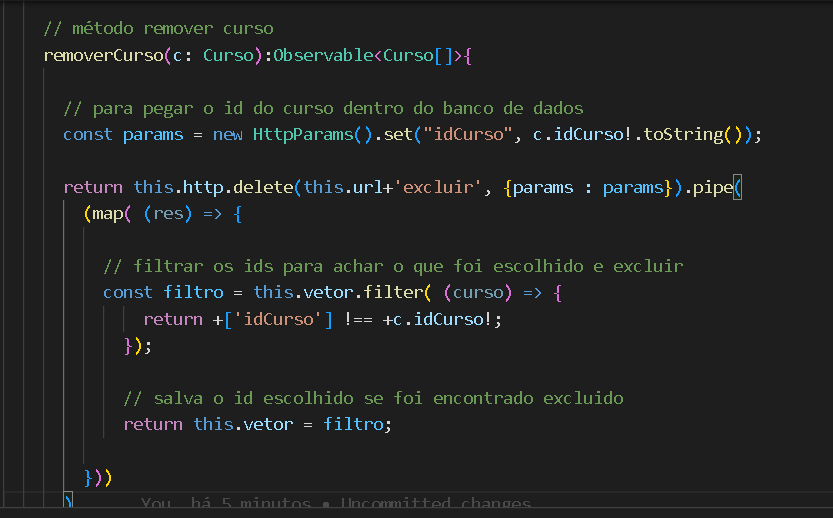
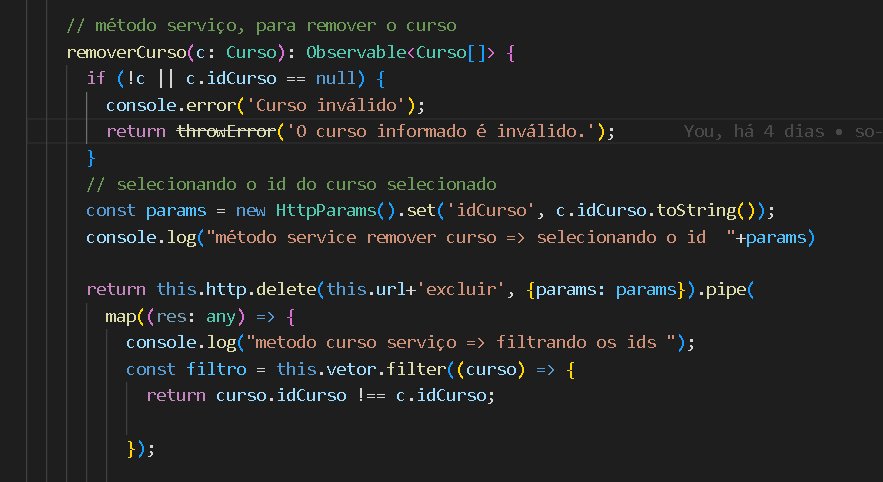
atualizando-bloco-notas

diff --git a/blocoNotas/Criar-metodo-exclusao.html b/blocoNotas/Criar-metodo-exclusao.html
@@ -33,7 +33,7 @@
                 <a href="./Criar-metodo-exclusao.html">Criando método de Exclusão</a><br>
                 <br>
                  <!--LINK AULA 2-->
-                <a href="./">algum link </a><br>
+                <a href="./Criar-metodo-Atualizar.html">Criando método de Atualizar </a><br>
                 <br>
                 <br>
                  <!---Link dentro da própria página-----><!---Figurinha mas é texto-->
@@ -55,31 +55,55 @@
                     <br>
                     // método remover Curso <br>
                     <br>
+                    <div class="destaque">
                     <b>removerCurso(c: Curso):Observable<Curso[]> { </b> <br> 
                     <br>
+                    // para fazer uma verificação se tem o idCurso ou não.<br>
+                    if (!c || c.idCurso == null) {<br>
+                    ____console.error('Curso inválido');<br>
+                    ____return throwError('O curso informado é inválido.');<br>
+                    __}<br>
+                    <br>
                     ____// para pegar o id do curso dentro do banco de dados
-                    <b>const params = new HttpParams().set("idCurso", c.idCurso!.toString());</b> <br>
+                    <b>const params = new HttpParams().set('idCurso', c.idCurso.toString());;</b> <br>
                     <br>
                     <br>
                     _____<b>return this.http.delete(this.url+'excluir', {params : params}).pipe ( </b> <br>
-                    _____<b>(map( (res) => {</b> <br>
+                    _____<b>(map( (res: any) => {</b> <br>
                             <br>
                     ________// filtrar os ids para achar o que foi escolhido e exclui <br>
                     ________<b>const filtro = this.vetor.filter( (curso) => {</b> <br>
-                    ______________<b>return +['idCurso'] !== +c.idCurso!;</b> <br>
+                    ______________<b>return curso.idCurso !== c.idCurso;</b> <br>
                     ______________<b>} ) ; </b> <br>
                     <br>
                     <br>
                     ________// salva o id escolhido se foi encontrado excluido <br>
-                    ________<b>return this.vetor = filtro;</b> <br>
+                    ________<b>this.vetor = [...filtro];</b> <br>
+                    <br>
+                    ________<b>return this.vetor;</b> <br>
                     <br>
                     __<b>} ) )</b> <br>
+                    // verificação se o idCurso não for removido vai exiir essa mensagem<br>
+                    <br>
+                    catchError((error: HttpErrorResponse) => {<br>
+                    ____if (error instanceof Error) {<br>
+                    _______console.error('Erro ao remover curso:', error);<br>
+                    _______return throwError('Ocorreu um erro ao tentar remover o curso.');<br>
+                    ____} else {<br>
+                    ______console.error('Erro ao remover curso:', error.error);<br>
+                    ______return throwError('Ocorreu um erro ao tentar remover o curso. Verifique os dados informados.');<br>
+                    ____}<br>
+                    __})<br>
                     <b>)</b>
+                    </div>
                     <br>
                     <br>
                     Veja o código como é :<br>
                     <div class="image">
                         <img src="./imagens/metodo-remover-1.png" alt="print do código">
+                    </div>
+                    <div class="image">
+                        <img src="./imagens/metodo-remover-2-2.png" alt="print do código">
                     </div>
                     <br>
                     <br>
@@ -101,22 +125,34 @@
                     <br>
                     //  remover Curso <br>
                     <br>
-                    <b> remover(){ </b> <br> 
-                    <br>
-                    ____<b>this.curso_servico.removerCurso(this.curso).subscribe ( </b> <br>
-                    <br>
-                    __________<b>(res : Curso[] ) => { </b> <br>
-                    _____________<b> this.vetor = res;</b> <br>
+                    <div class="destaque">
+                        <b> remover(c: Curso){ </b> <br> 
                             <br>
+                            ____<b>this.curso_servico.removerCurso(c).subscribe(</b> <br>
                             <br>
-                    ________// atualiza os atributos <br>
-                    ________<b>this.curso.nomeCurso = '' ;</b> <br>
-                    ________<b>this.curso.valorCurso = 0 ;</b> <br>
-                    <br>
-                    <br>
-                    ______<b>} </b> <br>
-                    __<b> )</b> <br>
-                    <b>}</b>
+                            __________<b>(res : Curso[] ) => { </b> <br>
+                            _____________<b> this.vetor = res;</b> <br>
+                                    <br>
+                                    <br>
+                            ________// atualiza os atributos <br>
+                            ________<b>this.curso.nomeCurso = '' ;</b> <br>
+                            ________<b>this.curso.valorCurso = 0 ;</b> <br>
+                            <br>
+                            _______<b>// atualizar a listagem no front</b> <br>
+                            _______<b>this.selecao();</b> <br>
+                            <br>
+                            _______<b>return this.vetor = res;</b>
+                            <br>
+                            ______<b>}, </b> <br>
+                            <br>
+                            // verifica se o método está funcionando.<br>
+                            error => { <br>
+                            ________console.error(error+" Erro no método remover");<br>
+                            ___} <br>
+                            <br>
+                            __<b> )</b> <br>
+                            <b>}</b>
+                    </div>
                     <br>
                     <br>
                     Veja o código como é :<br>
@@ -141,15 +177,17 @@
                     Vai no componente <b>curso.component.ts</b>, no método "selecionar curso especifico",<br>
                     <br>
                     <br>
-                    // selecionar curso especifico <br>
+                    // selecionar curso especifico para fazer algo... <br>
                     <br>
-                    <b> selecionarCurso( c : Curso ){ </b> <br> 
-                    <br>
-                    ____<b>this.curso.idCurso = c.idCurso;</b> <br>
-                    ____<b>this.curso.idCurso = c.idCurso; </b> <br>
-                    ____<b> this.curso.idCurso = c.idCurso;</b> <br>
-                    <br>
-                    __<b>} </b> <br>
+                    <div class="destaque">
+                        <b> selecionarCurso( c : Curso ){ </b> <br> 
+                            <br>
+                        ____<b>this.curso.idCurso = c.idCurso;</b> <br>
+                        ____<b>this.curso.idCurso = c.idCurso; </b> <br>
+                        ____<b> this.curso.idCurso = c.idCurso;</b> <br>
+                        <br>
+                        __<b>} </b> <br>
+                    </div>
                     <br>
                     <br>
                     Veja o código como é :<br>
@@ -159,7 +197,7 @@
                     <br>
                     <br>
                     Agora vai no componente <b>curso.component.html</b>, e adicione um "button",<br>
-                    que ao clicar nele vao acionar o método.<br>
+                    que ao clicar nele vai acionar o método.<br>
                     <br>
                     Acrescente mais uma tag "td", e dentro dela um "button".<br>
                     <br>

diff --git a/blocoNotas/Criar-metodo-Atualizar.html b/blocoNotas/Criar-metodo-Atualizar.html
@@ -10,7 +10,7 @@
     <link rel="preconnect" href="https://fonts.gstatic.com" crossorigin>
     <link href="https://fonts.googleapis.com/css2?family=Poppins:wght@300;400;500;600&display=swap" rel="stylesheet">
     <link href="https://cdnjs.cloudflare.com/ajax/libs/font-awesome/6.3.0/css/all.min.css" rel="stylesheet">
-    <title>Criando método de Cadastro</title>
+    <title>Criando método de Atualizar</title>
 </head>
 <body>
     <main class="todaPagina" id="aula2">
@@ -19,12 +19,6 @@
             <p class="logo">
                 <h2 id="h2" data-text="API" class="fill-animation">API</h2>
             </p>
-                <br>
-                 <!--LINK AULA 2-->
-                <a href="./Configurando-Angular.html">Configurando o Angular </a><br>
-                <br>
-                <!--LINK AULA 3-->
-                <a href="./Estrutura-de-servico.html">Estrutura de Serviços </a><br>
                 <br>
                 <!--LINK AULA 4-->
                 <a href="./Metodo-de-selecao.html">Método de Seleção </a><br>
@@ -35,6 +29,13 @@
                 <!--LINK AULA 6-->
                 <a href="./Criar-metodo-exclusao.html">Criando método de Exclusão</a><br>
                 <br>
+                 <!--LINK AULA 2-->
+                <a href="./Criar-metodo-Atualizar.html">Criando método de Atualizar </a><br>
+                <br>
+                <br>
+                <!--LINK AULA 3-->
+                <a href="./index.html"> Inicio </a><br>
+                <br>
                 <br>
                  <!---Link dentro da própria página-----><!---Figurinha mas é texto-->
                 <a href="#sobreMim"><i class="fa-solid fa-user-tie"></i></a><br>
@@ -43,92 +44,45 @@
                 <a href="#contato"><i class="fa-regular fa-envelope"></i></a><br>
              <br>
         </div>
-        <!--Criar método serviço para cadastrar-->
+        <!--Criar método serviço para excluir-->
         <section id="aula1" class="aula">
-            <header class="title"><h1>Criar método serviço para cadastrar </h1></header>
+            <header class="title"><h1>Criar método de serviço para Atualizar  </h1></header>
             <section class="description">
                 <h2>
-                    Vamos criar método de serviço para realizar um cadastramento.<br>
-                    <br>
-                    Esse método terá que ter um objeto, que tem o nome e o valor do curso.<br>
+                    Vamos criar método de serviço para atualizar algum dado do banco de dado.<br>
                     <br>
                     Vai no componente service <b>curso.service.ts</b> e adicione:<br>
                     <br>
                     <br>
-                    // método serviço cadastrar <br>
+                    // método serviço para atualizar curso <br>
+                    <br>
                     <div class="destaque">
-                        <b>
-                            cadastrarCurso(c: Curso):Observable<Curso[]>{ <br>
-                            ____return this.http.post(this.url+'cadastrar', {cursos : c }).pipe <br>
-                            ____( map ((res) => { <br>
-                            ________this.vetor.push(res as Curso); <br>
-                            ________return this.vetor; <br>
-                            ________}))<br>
-                            ____} <br>
-                        </b> 
-                    </div>
+                    <b>atualizarCurso(c: Curso): Observable<Curso[]>{ </b> <br> 
                     <br>
-                    Veja o código como é :<br>
+                    ______// executa a alteração via url<br>
+                    ______<b>return this.http.put(this.url+'alterar', {curso: c})</b><br>
+                    <br>
+                    ______// percorre o vetor para saber qual é o id do curso alterado.<br>
+                    ______<b>.pipe(map((res) => {</b> <br>
+                    _____________<b>const cursoAlterado = this.vetor.find((item) => {</b> <br>
+                    __________________<b>item.idCurso === c.idCurso</b> <br>
+                    _____________<b>} ) ;</b> <br>
+                    <br>
+                    _______// alterar o valor do vetor local <br>
+                    _______<b></b>
+
+              
                     <div class="image">
-                        <img src="./imagens/metodo-cadastrar-1.png" alt="print do código">
+                        <img src="./imagens/metodo-remover-2-2.png" alt="print do código">
                     </div>
                     <br>
-                    <br>
-                    Agora estamos usando:<br>
-                    <b>post</b> => que é para enviar algo.<br>
-                    <br>
-                    <b>console.log()</b> => é para saber o que o código está fazendo.<br>
                     <br>
                     <br>
                 </h2>
             </section>
         </section>
         <br>
-        <!--Chamar o método cadastro-->
-        <section id="aula1" class="aula">
-            <header class="title"><h1>Chamar o método serviço para cadastrar </h1></header>
-            <section class="description">
-                <h2>
-                    Vamos chamar o método que criamos, o método <b>cadastrar</b>.<br>
-                    <br>
-                    <br>
-                    Vai no componente <b>curso.component.ts</b> e adicione:<br>
-                    <br>
-                    <br>
-                    // método cadastrar <br>
-                    <div class="destaque">
-                        <b>
-                            cadastrar(){ <br>
-                            ____this.curso_servico.cadastrarCurso(this.curso) <br>
-                            .subscribe( <br>
-                            ________(res: Curso[]) => { <br>
-                            <br>
-                            ________// adicionando dados ao vetor <br>
-                            ________this.vetor = res; <br>
-                            <br>
-                            ________// limpar os atributos <br>
-                            ________this.curso.nomeCurso = '' ; <br>
-                            ________this.curso.valorCurso = 0 ; <br>
-                            <br>
-                            ________// atualizar a listagem no front <br>
-                            ________this.selecao(); <br>
-                            _______}<br>
-                            ____) <br>
-                            __}<br>
-                        </b> <br>
-                    </div>
-                    <br>
-                    Veja o código como é :<br>
-                    <div class="image">
-                        <img src="./imagens/metodo-cadastrar-2.png" alt="print do código">
-                    </div>
-                    <br>
-                    <br>
-                    <br>
-                    <br>
-                </h2>
-            </section>
-        </section>
+
         <br>
         <br>
         <div id="sobreMim" class="aula">      

diff --git a/blocoNotas/Metodo-de-selecao.html b/blocoNotas/Metodo-de-selecao.html
@@ -172,16 +172,20 @@
             </section>
         </section>
         <br>
-        <!--Exibir o "curso" selecionado no front-end-->
+        <!--Exibir os "cursos" selecionado no front-end-->
         <section id="aula1" class="aula">
-            <header class="title"><h1> Exibir no front-end (página) </h1></header>
+            <header class="title"><h1> Exibir os cursos no front-end (página) </h1></header>
             <section class="description">
                 <h2>
+                    Vamos exibir os cursos no front-end.<br>
+                    <br>
                     No componente <b>curso.component.ts</b> adicione um objeto.<br>
                     <br>
-                    <b>curso = new Curso( );</b> <br>
+                    Vamos criar um objeto, da classe "curso" para poder instânciar,<br>
+                    Para pode usar todos os dados que estão lá: id, nomeCurso, valorCurso.<br>
                     <br>
-                    Para pode exibir todos os dados: id, nomeCurso, valorCurso.<br>
+                    // objeto da classe curso <br>
+                    <b>curso = new Curso( );</b> <br>
                     <br>
                     <br>
                     Para exibir, vai no componente <b>curso.component.html</b>, <br>
@@ -192,11 +196,14 @@
                     <b>table border = "1" </b> => cria uma tabela, com borda.<br>
                     // vai percorre toda tabela <br>
                     <br>
+                    <div class="destaque">
                     __<b>tr *ngFor="let v of vetor" </b> => linha da tabela <br>
                     _____<b>td</b> { { v.nomeCurso } } <b>/td</b> => coluna da tabela. <br>
                     _____<b>td</b> { { v.valorCurso } } <b>/td</b> => coluna da tabela.<br>
                     __<b>tr</b> => fecha a linha da tabela.<br>
                     <b>table</b> => fecha a tabela <br>
+                    </div>
+                    <br>
                     <br>
                     Veja o código como é :<br>
                     <div class="image">

diff --git a/app-php/src/app/curso/curso.service.ts b/app-php/src/app/curso/curso.service.ts
@@ -83,22 +83,17 @@ export class CursoService  {
       );
     }
 
-      // atualizar curso
+      // método serviço para atualizar curso
       atualizarCurso(c: Curso): Observable<Curso[]>{
-
         // executa a alteração via url
         return this.http.put(this.url+'alterar', {curso: c})
-
-
 
         // percorre o vetor para saber qual é o id do curso alterado
         .pipe(map((res) => {
             const cursoAlterado = this.vetor.find((item) => {
-              item.idCurso === c.idCurso;
-
+              item.idCurso === c.idCurso
             });
-
-            // altero o valor do vetor local
+            // alterar o valor do vetor local
             if(cursoAlterado){
               cursoAlterado ['nomeCurso'] = c ['nomeCurso'];
               cursoAlterado ['valorCurso'] = c ['valorCurso'];
@@ -106,9 +101,7 @@ export class CursoService  {
             }
             // retorna
             return this.vetor;
-
         }))
-
       }
 
 

diff --git a/app-php/src/app/curso/curso.component.ts b/app-php/src/app/curso/curso.component.ts
@@ -93,17 +93,15 @@ export class CursoComponent implements OnInit {
     this.curso_servico.removerCurso(c).subscribe(
       (res: Curso[] ) => {
         console.log("método remover => removendo o curso "+JSON.stringify(c));
-
         // atualizar os atributos
         this.curso.nomeCurso = '';
         this.curso.valorCurso = 0 ;
         console.log("método remover => atualizando os atributos");
-
         // atualizar a listagem no front
         console.log("método remover => atualizando o front-End "+JSON.stringify(res));
         this.selecao();
-        return this.vetor = res;
 
+        return this.vetor = res;
       },
       error => {
         console.error(error+" Erro no método remover");
